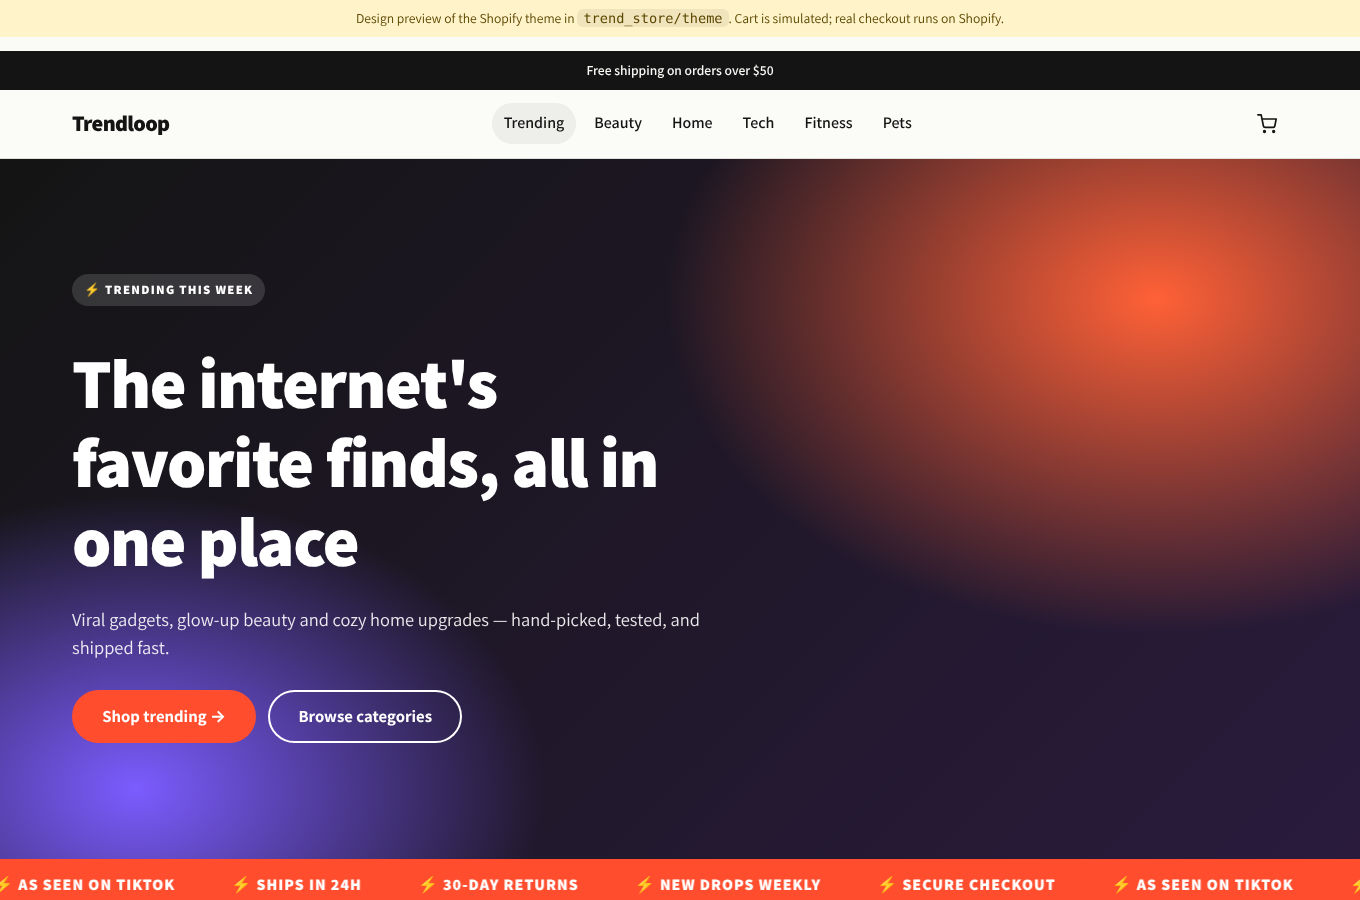
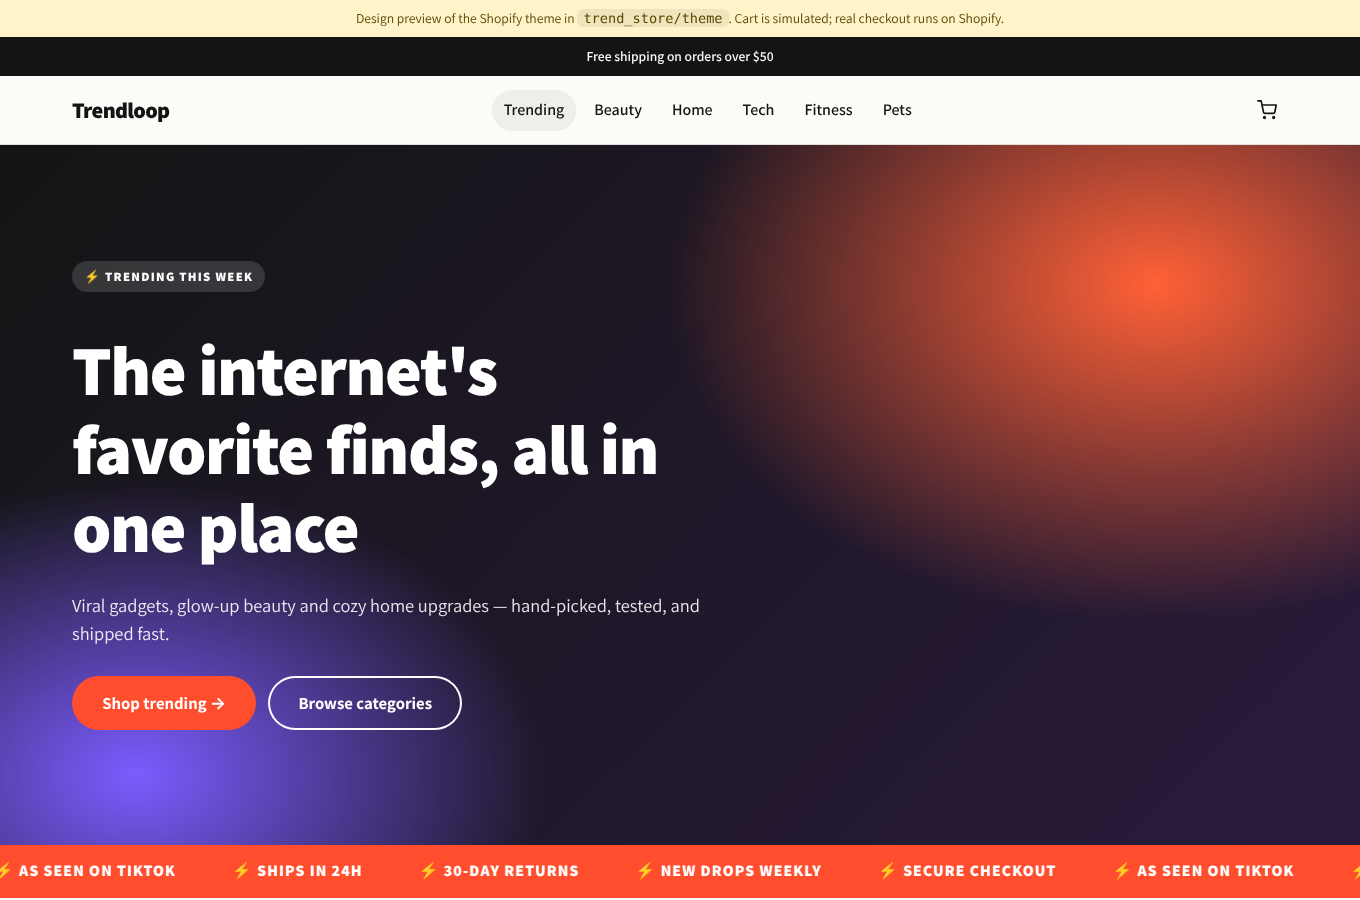
Fix product card buttons overflowing the card edge
Full-width quick-add buttons also had side margins, pushing them past the
card's right edge. Let them size to the card instead.

Claude-Session: https://claude.ai/code/session_01F3GHkfHxRQou5vq3twWLZk

diff --git a/trend_store/theme/assets/base.css b/trend_store/theme/assets/base.css
@@ -207,7 +207,7 @@ textarea.input { resize: vertical; }
 .card__title { font-family: var(--font-body); font-size: .98rem; font-weight: 700; letter-spacing: 0; margin: 0 0 6px; }
 .card__link { text-decoration: none; }
 .card__link::after { content: ""; position: absolute; inset: 0; }
-.card__quick-add { position: relative; z-index: 2; margin: 0 14px 14px; }
+.card__quick-add { position: relative; z-index: 2; display: flex; width: auto; margin: 0 14px 14px; }
 .card--placeholder { opacity: .7; }
 
 /* Price */
